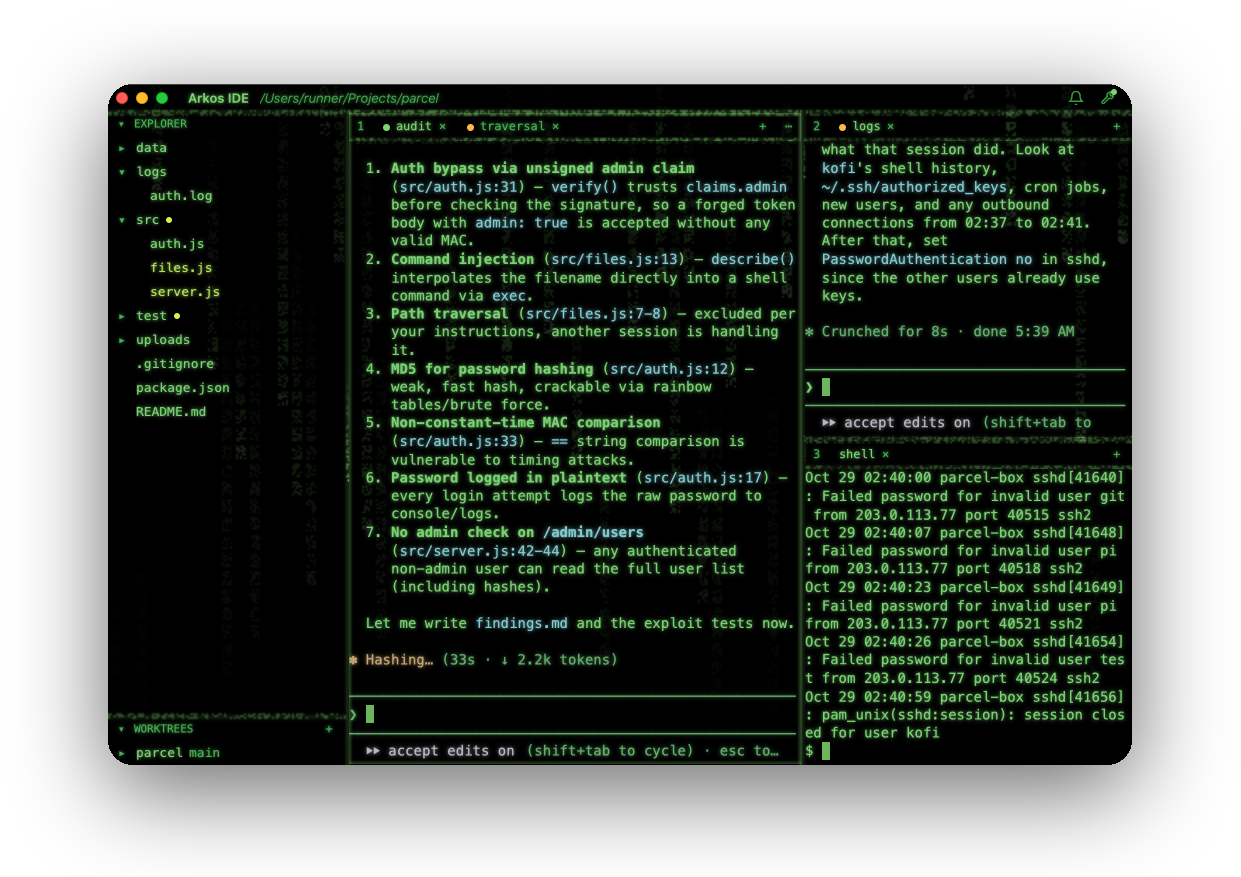
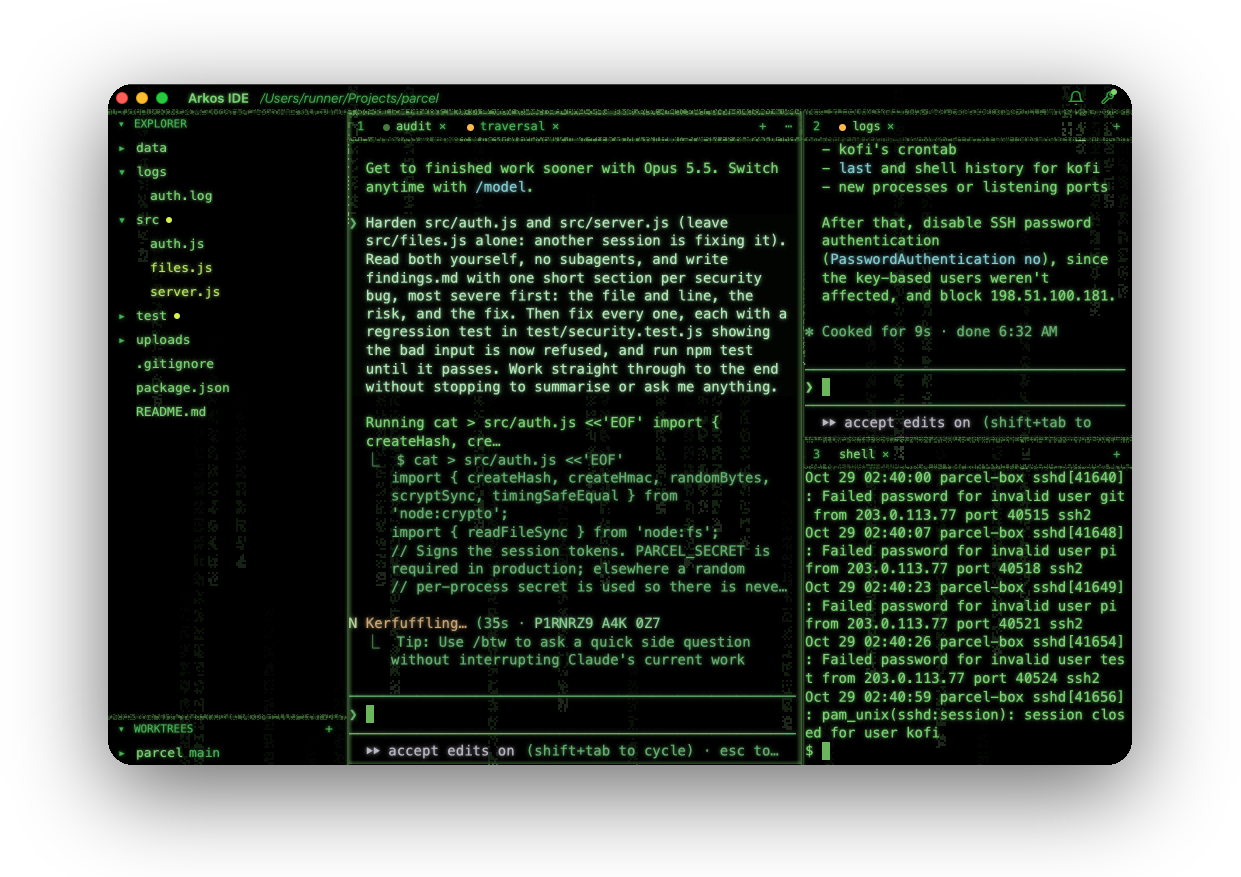
README: the hacker with the rain falling and its newest line mid-decode

diff --git a/README.md b/README.md
@@ -71,14 +71,15 @@ panes and the table, and draws the text as if in ink.
   <img alt="An Arkos IDE window in Peach Light with its watercolor effect, two panes one above the other: a launch plan rendered in the markdown editor on top, its status table drawn as a grid with an apricot wash over its header and an ink outline; below it a Claude Code session updating the plan from the notes, the window washed in peach and rose with ink lines round each pane" src="docs/images/blogger-dark.png" width="620">
 </picture>
 
-**The hacker** works on security: Claude Code audits a small file-drop service for bugs while a
-second session fixes the path traversal it is known to have and tests the fix, a third reads the
-server's ssh log for the address that guessed its way in, and a shell shows the end of that log.
-It is shot in Matrix, black with soft phosphor green, whose matrix effect runs rune rain behind
-the panes and lights the text with a green glow.
+**The hacker** works on security: Claude Code audits a small file-drop service and hardens its
+sign-in, each fix with a regression test, while a second session fixes the path traversal it is
+known to have, a third reads the server's ssh log for the address that guessed its way in, and a
+shell shows the end of that log. It is shot in Matrix, black with soft phosphor green, whose
+effect runs rune rain behind the panes, lights the text with a green glow, and scrambles each
+new line for a moment before it settles, as on the audit's status line here.
 
 <picture>
-  <img alt="An Arkos IDE window in the Matrix theme, black with green text and faint rune rain behind the panes: the file tree on the left, Claude Code auditing a service for security bugs with a second tab fixing a path traversal, a session reading an ssh log for a break-in, and a shell showing the end of that log" src="docs/images/hacker-dark.png" width="760">
+  <img alt="An Arkos IDE window in the Matrix theme, black with green text and rune rain falling behind the panes: the file tree on the left, Claude Code hardening a service's sign-in with its newest line still scrambling into place and a second tab fixing a path traversal, a session reading an ssh log for a break-in, and a shell showing the end of that log" src="docs/images/hacker-dark.png" width="760">
 </picture>
 
 ## Privacy
